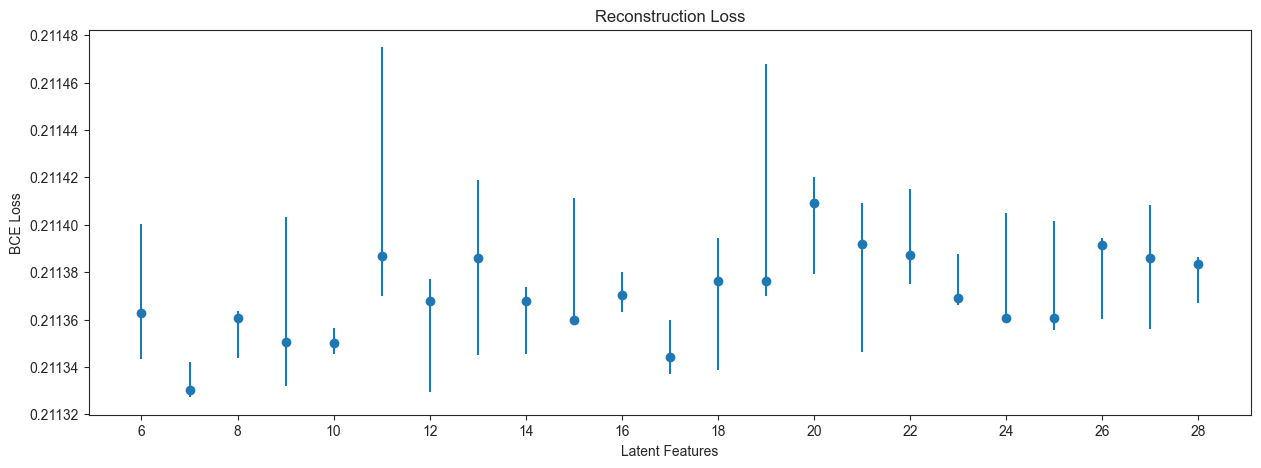
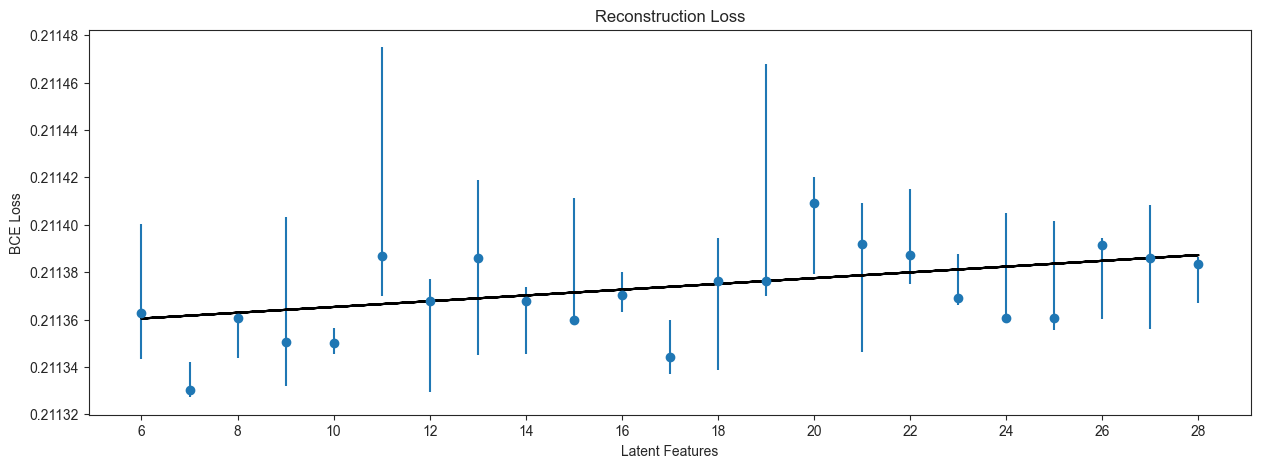
Code

diff --git a/pca.py b/pca.py
@@ -7,85 +7,30 @@ import random
 
 np.set_printoptions(linewidth=np.inf)
 
-encoding_dim = 13
-run = 3
-
-# extracted_features = np.load("Variational Eagle/Extracted Features/Fully Balanced/" + str(encoding_dim) + "_feature_300_epoch_features_" + str(run) + ".npy")[0]
-extracted_features = np.load("Variational Eagle/Extracted Features/Fully Balanced/" + str(encoding_dim) + "_feature_750_epoch_32_bs_features_" + str(run) + ".npy")[0]
-# extracted_features = np.load("Variational Eagle/Extracted Features/Normalised Individually/" + str(encoding_dim) + "_feature_300_epoch_features_3.npy")[0]
-
-# print(extracted_features.shape)
-#
-# med_features = [np.median(extracted_features.T[i]) for i in range(len(extracted_features.T))]
-# print(med_features)
-#
-# random.seed(1)
-# random_features = random.sample(range(0, extracted_features.shape[0]), 10)
-#
-# med_rmse = []
-#
-# for n_components in range(1, (extracted_features.shape[1])):
-#
-#     print(n_components)
-#
-#     pca = PCA(n_components=n_components).fit(extracted_features)
-#     pca_features = pca.transform(extracted_features)
-#
-#     rmse = []
-#
-#     for i in random_features:
-#
-#         feature_reconstructions = pca.inverse_transform(pca_features[i])
-#
-#         # print(extracted_features[i])
-#         # print(feature_reconstructions)
-#         # print()
-#
-#         rmse.append(np.sqrt(np.mean(np.square(extracted_features[i] - feature_reconstructions))))
-#
-#     med_rmse.append(np.median(np.array(rmse)))
-#
-# plt.plot(med_rmse)
-# plt.show()
+encoding_dim = 12
+run = 1
 
 
-
-
-# pca_features = pca.transform(random_features)
-#
-# random_features_reconstruction = pca.inverse_transform(pca_features)
-#
-# print(random_features)
-# print(random_features_reconstruction)
-
-
-
-# print(extracted_features[0])
-# print(pca_features[0])
-#
-# new_features = pca.inverse_transform([0, 0, 0, 0, 0, 0, 0, 0])
-#
-# print(new_features)
-
-
-
-# print(pca_features.shape)
-
-# print(pca.components_.shape)
-
-# print(extracted_features[0])
-# print(pca.components_.T[0])
-#
-# pca_features = np.array([0, 0, 0, 0, 0, 0, 0, 0]).reshape(1, -1)
-# print(pca_features.shape)
-# new_features = pca.inverse_transform(pca_features.reshape(1, -1))
-# print(new_features.shape)
-
-
-
+extracted_features = np.load("Variational Eagle/Extracted Features/Fully Balanced/" + str(encoding_dim) + "_feature_750_epoch_32_bs_features_1.npy")[0]
 pca = PCA(n_components=encoding_dim).fit(extracted_features)
-
 plt.plot(range(1, encoding_dim+1), pca.explained_variance_ratio_)
+
+extracted_features = np.load("Variational Eagle/Extracted Features/Fully Balanced/" + str(encoding_dim) + "_feature_750_epoch_32_bs_features_2.npy")[0]
+pca = PCA(n_components=encoding_dim).fit(extracted_features)
+plt.plot(range(1, encoding_dim+1), pca.explained_variance_ratio_)
+
+extracted_features = np.load("Variational Eagle/Extracted Features/Fully Balanced/" + str(encoding_dim) + "_feature_750_epoch_32_bs_features_3.npy")[0]
+pca = PCA(n_components=encoding_dim).fit(extracted_features)
+plt.plot(range(1, encoding_dim+1), pca.explained_variance_ratio_)
+
+
+
+
+# extracted_features = np.load("Variational Eagle/Extracted Features/Fully Balanced/" + str(encoding_dim) + "_feature_750_epoch_32_bs_features_" + str(run) + ".npy")[0]
+# pca = PCA(n_components=encoding_dim).fit(extracted_features)
+# plt.plot(range(1, encoding_dim+1), pca.explained_variance_ratio_)
+
+
 
 plt.ylabel("Variance Explained")
 plt.xlabel("Principal Components")
@@ -96,10 +41,3 @@ print(pca.explained_variance_ratio_)
 
 # plt.savefig("Variational Eagle/Plots/pca_scree_normalised_individually_" + str(encoding_dim) + "_features")
 plt.show()
-
-
-
-# print(pca.components_.shape)
-#
-# for i in range(pca.components_.shape[0]):
-#     print(len(list(pca.components_[0])))

diff --git a/optimal_features.py b/optimal_features.py
@@ -8,6 +8,7 @@ from tensorflow.keras import backend as K
 import numpy as np
 import pandas as pd
 from sklearn.decomposition import PCA
+from sklearn.linear_model import LinearRegression
 import random
 from matplotlib import pyplot as plt
 from matplotlib import image as mpimg
@@ -119,10 +120,20 @@ axs.errorbar(df_loss["Extracted Features"], df_loss["Med Reconstruction"], yerr=
 axs.set_xticks(range(6, 30, 2))
 
 axs.set_title("Reconstruction Loss")
-
 axs.set_ylabel("BCE Loss")
-
 axs.set_xlabel("Latent Features")
+
+
+
+x_val = np.array(list(df_loss["Extracted Features"]) + list(df_loss["Extracted Features"]) + list(df_loss["Extracted Features"])).reshape(-1, 1)
+y_val = np.array(list(df_loss["Med Reconstruction"]) + list(df_loss["Min Reconstruction"]) + list(df_loss["Max Reconstruction"])).reshape(-1, 1)
+
+fit = LinearRegression().fit(x_val, y_val)
+fit_line = fit.predict(x_val)
+axs.plot(x_val, fit_line, color="black")
+
+print(fit.coef_, fit.intercept_)
+
 
 
 plt.savefig("Variational Eagle/Plots/loss_pot_zoomed_reconstruction", bbox_inches='tight')
